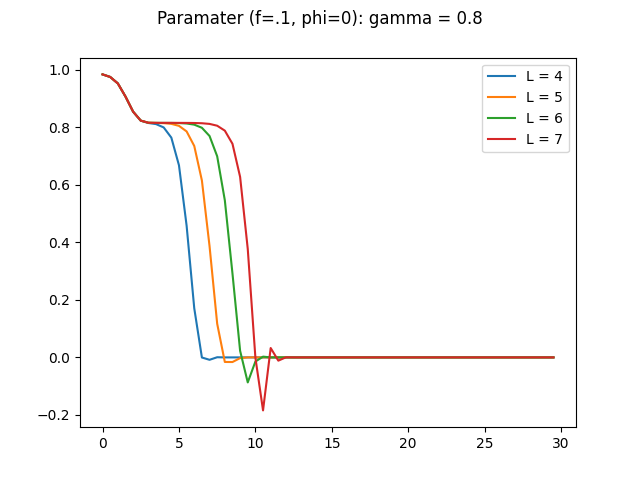
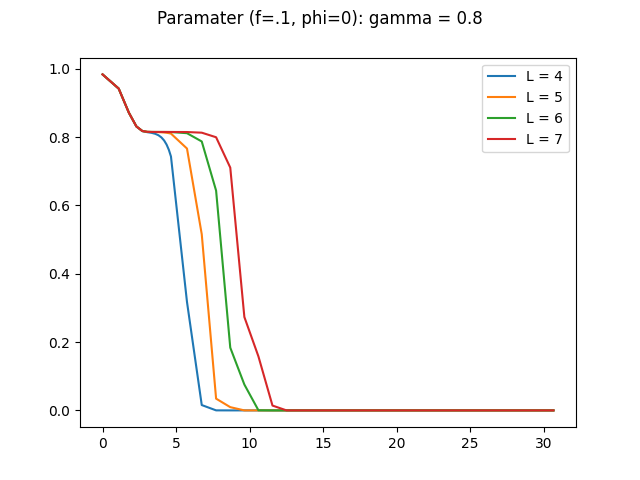
Edits to laczos code: - Normalize Eigenstates - Fix legend

diff --git a/CODES/Z3_CODE/laczos_coeff_sim.py b/CODES/Z3_CODE/laczos_coeff_sim.py
@@ -42,7 +42,8 @@ def LACZOS_COEF_vary_gam_SIM(n, size, gamma, params):
     #plt.xscale('log')
     #plt.plot(np.array(in_list), np.array(b_values), marker = ".", linestyle = '-', color = 'r', label = 'Recursive')
     #plt.plot(np.array(in_list_2), np.array(b_values_2), marker = ".", linestyle = '-', color = 'g', label = 'GS')
-    plt.imshow(matrix_final, cmap='viridis', aspect='auto')
+    F = matrix_final.real
+    plt.imshow(F, cmap='viridis', aspect='auto')
     plt.colorbar(label='Value')  # ← this adds the side bar
     plt.title(title)
     plt.xlabel('Column Index')
@@ -57,23 +58,26 @@ def LACZOS_COEF_vary_gam_SIM(n, size, gamma, params):
 
     if gamma == 1:
         # b_values = recursion_method(n, H, size)
-        A, U = np.linalg.eigh(matrix_final)
+        A, U = np.linalg.eig(matrix_final)
+        print(np.min(np.abs(A)))
         in_list = np.arange(1, n+2, 1)
-        EIG_STATE = U[:, np.argmin(np.abs(A))]
+        EIG_STATE = np.abs(U[:, np.argmin(np.abs(A))])
+        EIG_STATE = (1/np.linalg.norm(EIG_STATE)) * EIG_STATE
         #print(np.min(A))
     else:
         A, U = np.linalg.eig(matrix_final)
         in_list = np.arange(1, n+1, 1)
-        EIG_STATE = U[:, np.argmin(np.abs(A))]
+        EIG_STATE = np.abs(U[:, np.argmin(np.abs(A))])
+        EIG_STATE = (1/np.linalg.norm(EIG_STATE)) * EIG_STATE
         #print(np.min(np.abs(A)))
 
     plt.subplot()
-    plt.plot(in_list, EIG_STATE, marker = ".", linestyle = '-', color = 'r', label = 'gamm = ' + str(gamma))
+    plt.plot(in_list, EIG_STATE, marker = ".", linestyle = '-', color = 'r', label = 'E = ' + str(np.min(np.abs(A))))
     title = str(params[0]) + ", " + str(params[1]) + "  " + "(f, PHI)" + " gam = " + str(gamma) + " Eigenvector graph (L = " + str(size) + ")"
     plt.suptitle(title)
     plt.xlabel("n")
     plt.ylabel("Eigenvector Components")
-    #plt.ylim(0, 0.2)
+    plt.ylim(0, 0.05)
     plt.legend()
     plt.tight_layout()
     plt.savefig("eigenval_graphs_krylov_matrix.png", dpi=300, bbox_inches='tight')

diff --git a/CODES/Z3_CODE/DATA/run_042525_vary_gamma_results/plot.py b/CODES/Z3_CODE/DATA/run_042525_vary_gamma_results/plot.py
@@ -37,7 +37,7 @@ for k in range(len(gamma_list)):
     fig, ax = plt.subplots()
     plt.suptitle("Paramater (f=.1, phi=0): gamma = " + str(gamma_list[k]))
     for j in range(4):
-        plt.plot(time_list, data_list[len(size_list)*k + j], label= "L = " + str(size_list[j]))
+        plt.plot(time_list, np.abs(data_list[len(size_list)*k + j]), label= "L = " + str(size_list[j]))
         
     plt.legend()
     plt.savefig("parameter_gamma_"+str(gamma_list[k])+"_graph.png")
@@ -55,8 +55,8 @@ for i in np.arange(32):
         data_list_2.append(p[1, :])
 
 
-for j in range(1, 32):
-    data_list_2[j] = data_list_2[j].tolist()
+for j in range(1, 33):
+    data_list_2[j] = np.abs(data_list_2[j]).tolist()
 data_list_2 = np.array(data_list_2)
 df = pd.DataFrame(data_list_2).T
 df.to_excel('autocorr_data.xlsx', index=False, header=False)

diff --git a/CODES/Z3_CODE/Z3_code.py b/CODES/Z3_CODE/Z3_code.py
@@ -277,8 +277,8 @@ def recursion_method(n, H, size):
 
     #print(b)
 
-
-    matrix_final = np.eye(len(krylov_basis))
+    l = len(krylov_basis)
+    matrix_final = np.zeros((l,l), dtype=complex)
     for j in range(len(krylov_basis)):
         k = L @ krylov_basis[j]
         for i in range(len(krylov_basis)):
@@ -318,7 +318,8 @@ def grahm_schmidt(n, H, size):
         U.append(v / np.linalg.norm(v))
 
     # COLLECT B VALUES
-    matrix_final = np.eye(len(U))
+    l = len(U)
+    matrix_final = np.zeros((l,l), dtype=complex)
     for j in range(len(U)):
         k = L @ U[j]
         for i in range(len(U)):

diff --git a/CODES/Z3_CODE/main.py b/CODES/Z3_CODE/main.py
@@ -31,4 +31,4 @@ L_array = [5, 6, 7, 8]
 
 #size_autocorrelator_SIMULATION_NPY(0, 30, .5, L_array, array_parameters[int(sys.argv[1])], 1)
 
-LACZOS_COEF_vary_gam_SIM(40, L, .9, [.48, cm.pi/6])
+LACZOS_COEF_vary_gam_SIM(40, 4, .9, [.48, cm.pi/6])
